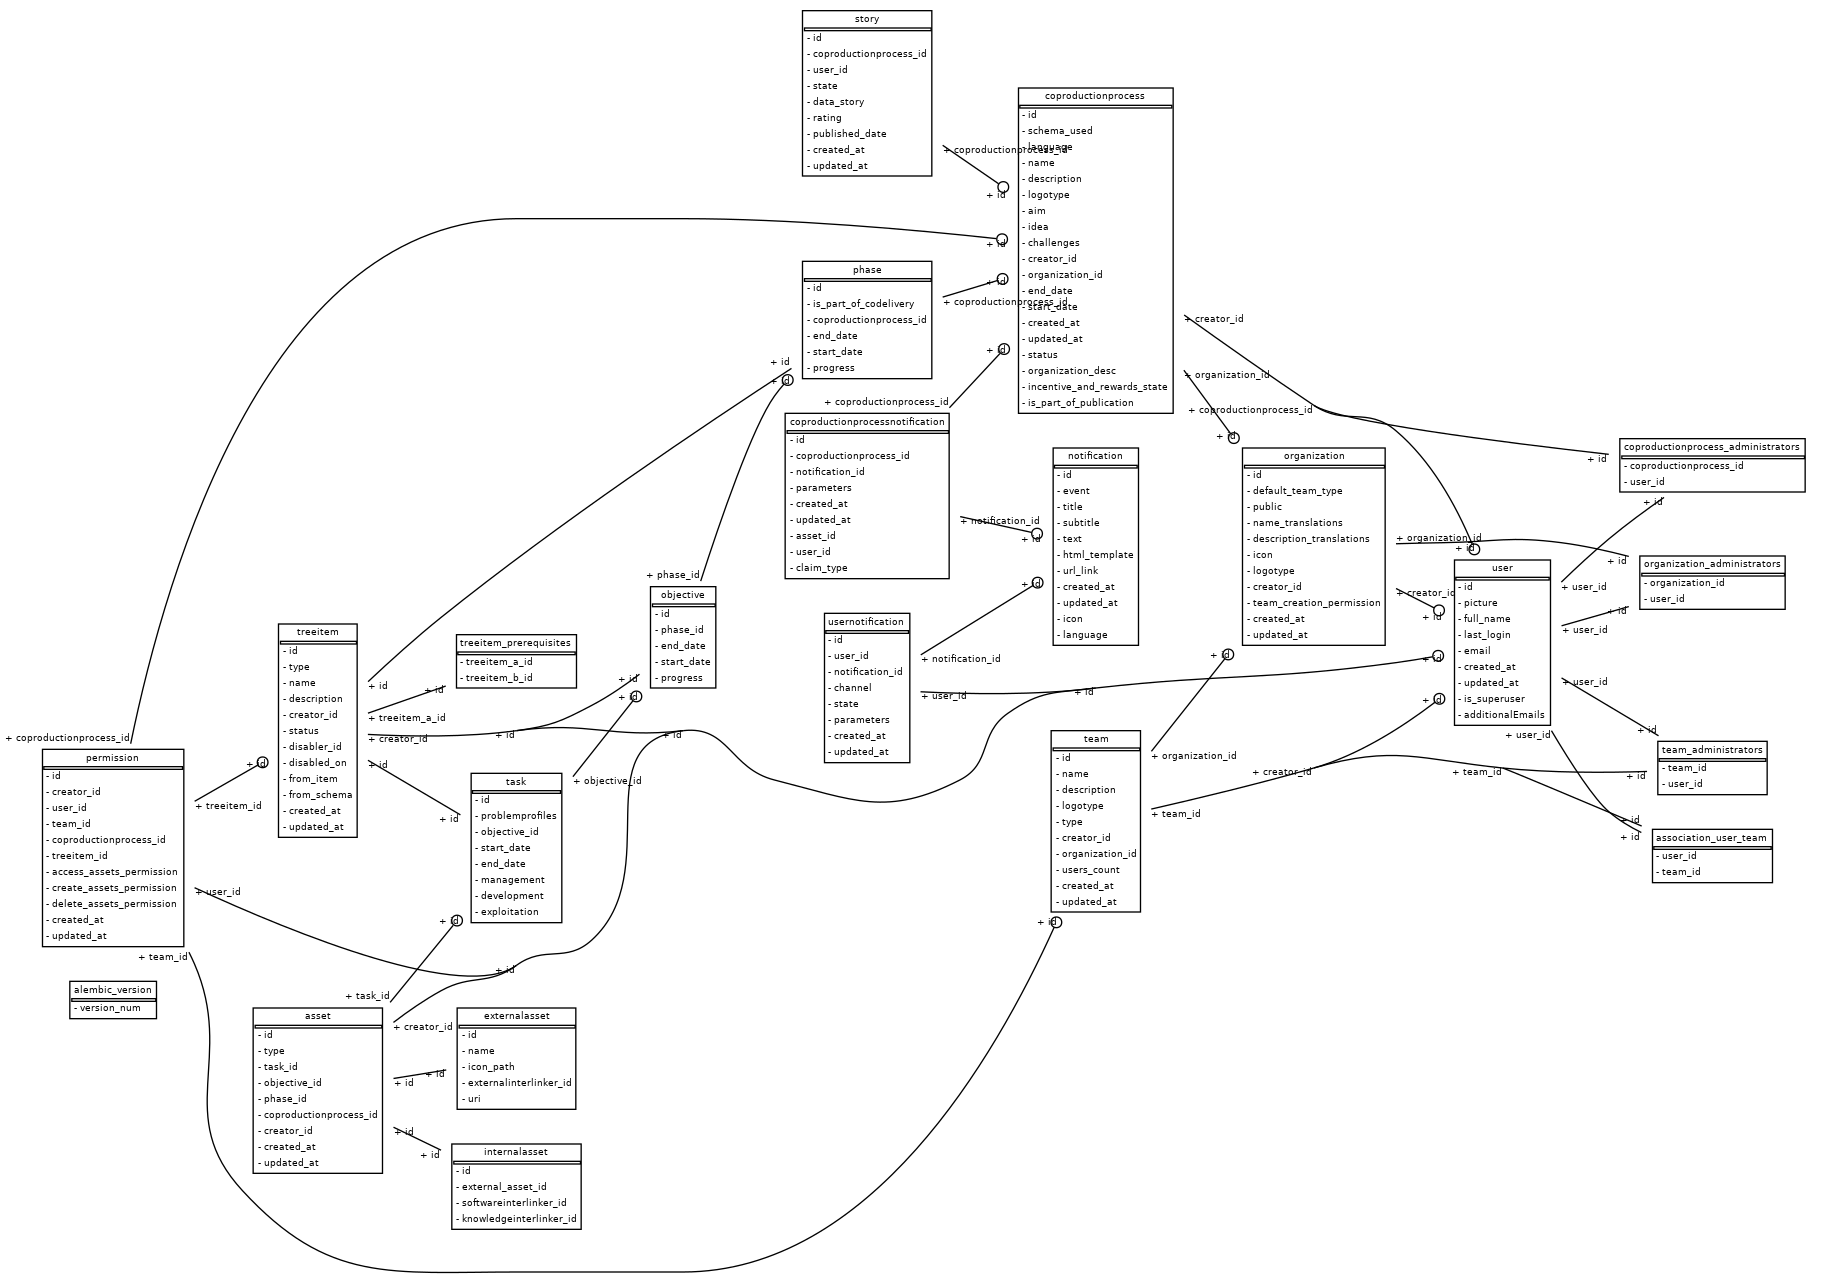
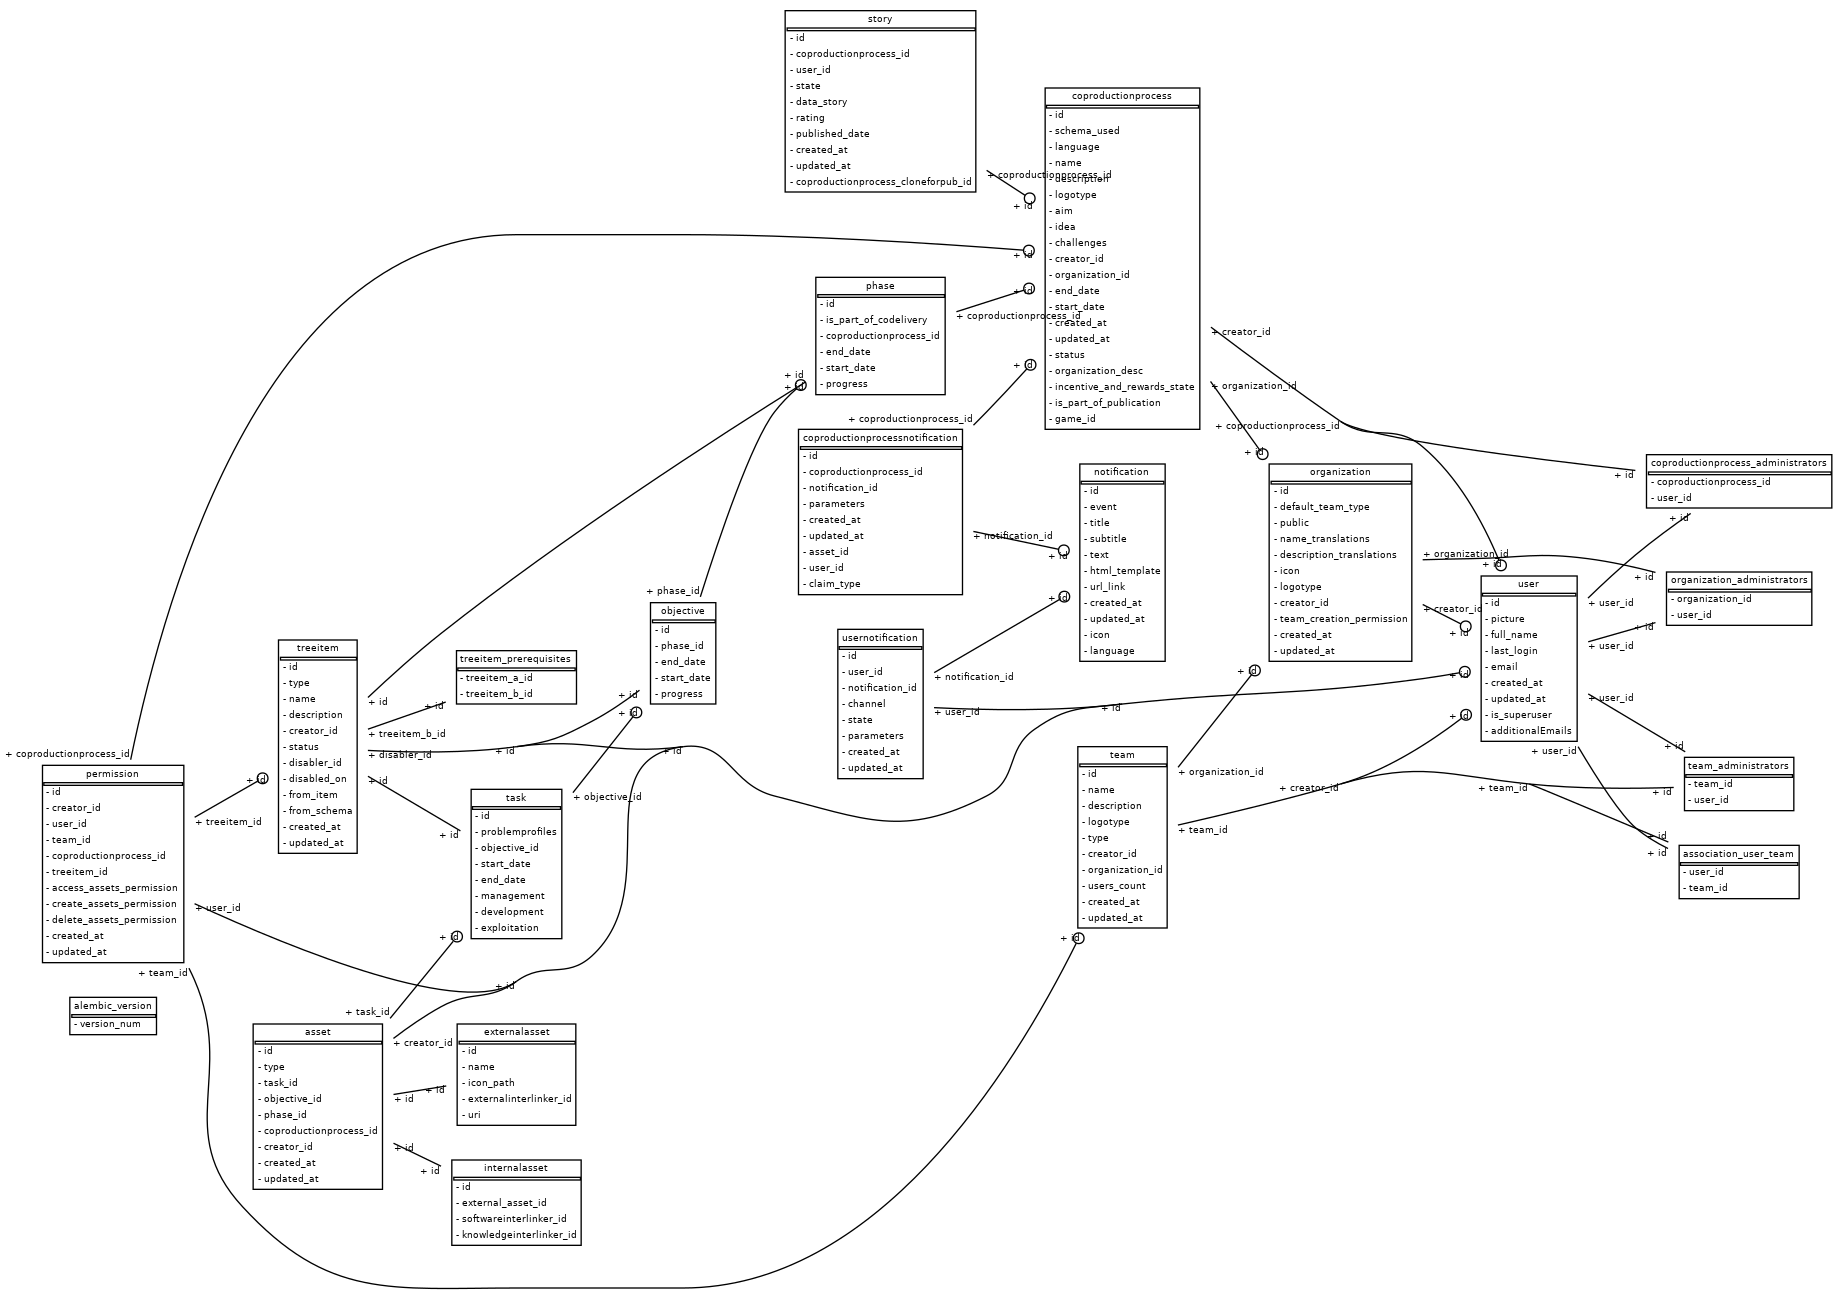
Add gameId and fix mails for outlook

diff --git a/coproduction/email-templates/build/add_team_coprod.html b/coproduction/email-templates/build/add_team_coprod.html
@@ -426,7 +426,7 @@
                                                             style="mso-table-lspace:0pt;mso-table-rspace:0pt;border-collapse:collapse;border-spacing:0px">
                                                             <tr>
                                                                 <td align="center" style="padding:0;Margin:0">
-                                                                    <!--[if mso]><a href="https://dev.interlink-project.eu/dashboard/organizations" target="_blank" hidden> <v:roundrect xmlns:v="urn:schemas-microsoft-com:vml" xmlns:w="urn:schemas-microsoft-com:office:word" esdevVmlButton href="https://dev.interlink-project.eu/dashboard/organizations" style="height:41px; v-text-anchor:middle; width:173px" arcsize="0%" stroke="f" fillcolor="#258ccc"> <w:anchorlock></w:anchorlock> <center style='color:#ffffff; font-family:roboto, "helvetica neue", helvetica, arial, sans-serif; font-size:15px; font-weight:400; line-height:15px; mso-text-raise:1px'>Go to the process</center> </v:roundrect></a><![endif]--><!--[if !mso]><!-- --><span
+                                                                    <!--[if mso]><a href="{{ link }}" target="_blank" hidden> <v:roundrect xmlns:v="urn:schemas-microsoft-com:vml" xmlns:w="urn:schemas-microsoft-com:office:word" esdevVmlButton href="{{ link }}" style="height:41px; v-text-anchor:middle; width:173px" arcsize="0%" stroke="f" fillcolor="#258ccc"> <w:anchorlock></w:anchorlock> <center style='color:#ffffff; font-family:roboto, "helvetica neue", helvetica, arial, sans-serif; font-size:15px; font-weight:400; line-height:15px; mso-text-raise:1px'>Go to the process</center> </v:roundrect></a><![endif]--><!--[if !mso]><!-- --><span
                                                                         class="msohide es-button-border-2 es-button-border"
                                                                         style="border-style:solid;border-color:#2cb543;background:#258ccc;border-width:0px;display:inline-block;border-radius:0px;width:auto;mso-hide:all"><a
                                                                             href="{{ link }}"

diff --git a/coproduction/app/coproductionprocesses/models.py b/coproduction/app/coproductionprocesses/models.py
@@ -34,14 +34,14 @@ class CoproductionProcess(BaseModel):
     idea = Column(Text, nullable=True)
     organization_desc = Column(Text, nullable=True)
     challenges = Column(Text, nullable=True)
-    
+
     #Active Optional Modules
     incentive_and_rewards_state =Column(Boolean,nullable=True)
     is_part_of_publication = Column(Boolean,nullable=True)
 
     status = Column(Enum(Status, create_constraint=False,
                     native_enum=False), default=Status.in_progress)
-  
+
 
     # created by
     creator_id = Column(String, ForeignKey(
@@ -53,7 +53,7 @@ class CoproductionProcess(BaseModel):
         secondary=coproductionprocess_administrators_association_table,
         backref="administered_processes")
     administrators_ids = association_proxy('administrators', 'id')
-    
+
     organization_id = Column(UUID(as_uuid=True), ForeignKey(
         "organization.id", use_alter=True, ondelete='SET NULL'))
     organization = relationship('Organization', post_update=True, backref="coproductionprocesses")
@@ -73,6 +73,10 @@ class CoproductionProcess(BaseModel):
         back_populates="coproductionprocess",
         cascade="all, delete-orphan",
     )
+    
+    # Gamification
+    game_id = Column(String, nullable=True)
+    
     stories = association_proxy("coproductionprocess_story_associations", "story")
 
     @aggregated('children', Column(Date))

diff --git a/coproduction/app/coproductionprocesses/schemas.py b/coproduction/app/coproductionprocesses/schemas.py
@@ -21,8 +21,10 @@ class CoproductionProcessBase(BaseModel):
     organization_id: Optional[uuid.UUID]
     challenges: Optional[str]
     status: Optional[Status]
-    incentive_and_rewards_state:Optional[bool]
-    is_part_of_publication:Optional[bool]
+    incentive_and_rewards_state: Optional[bool]
+    is_part_of_publication: Optional[bool]
+    game_id: Optional[str]
+
 
 class CoproductionProcessCreate(CoproductionProcessBase):
     language: Languages
@@ -34,9 +36,10 @@ class CoproductionProcessPatch(CoproductionProcessCreate):
     name:  Optional[str]
     status: Optional[Status]
     logotype: Optional[str]
-    incentive_and_rewards_state:Optional[bool]
-    is_part_of_publication:Optional[bool]
+    incentive_and_rewards_state: Optional[bool]
+    is_part_of_publication: Optional[bool]
     language: Optional[Languages]
+    game_id: Optional[str]
 
 
 class CoproductionProcess(CoproductionProcessBase):

diff --git a/coproduction/alembic/versions/0462dcc06662_add_coproductionproc_gameid.py b/coproduction/alembic/versions/0462dcc06662_add_coproductionproc_gameid.py
@@ -1,0 +1,28 @@
+"""add_coproductionproc_gameid
+
+Revision ID: 0462dcc06662
+Revises: a4e4e44c87f8
+Create Date: 2023-02-27 16:48:30.407530
+
+"""
+from alembic import op
+import sqlalchemy as sa
+
+
+# revision identifiers, used by Alembic.
+revision = '0462dcc06662'
+down_revision = 'a4e4e44c87f8'
+branch_labels = None
+depends_on = None
+
+
+def upgrade():
+    # ### commands auto generated by Alembic - please adjust! ###
+    op.add_column('coproductionprocess', sa.Column('game_id', sa.String(), nullable=True))
+    # ### end Alembic commands ###
+
+
+def downgrade():
+    # ### commands auto generated by Alembic - please adjust! ###
+    op.drop_column('coproductionprocess', 'game_id')
+    # ### end Alembic commands ###

diff --git a/coproduction/app/api/api_v1/coproductionprocessnotifications.py b/coproduction/app/api/api_v1/coproductionprocessnotifications.py
@@ -43,8 +43,6 @@ async def list_coproductionprocessnotificationsbyAsset(
     return await crud.coproductionprocessnotification.get_coproductionprocess_notifications_byAseetId(db=db,coproductionprocess_id=coproductionprocess_id,asset_id=asset_id)
 
 
-
-
 # @router.get("/users/{username}", tags=["users"])
 # async def read_user(username: str):
 #     return {"username": username}
